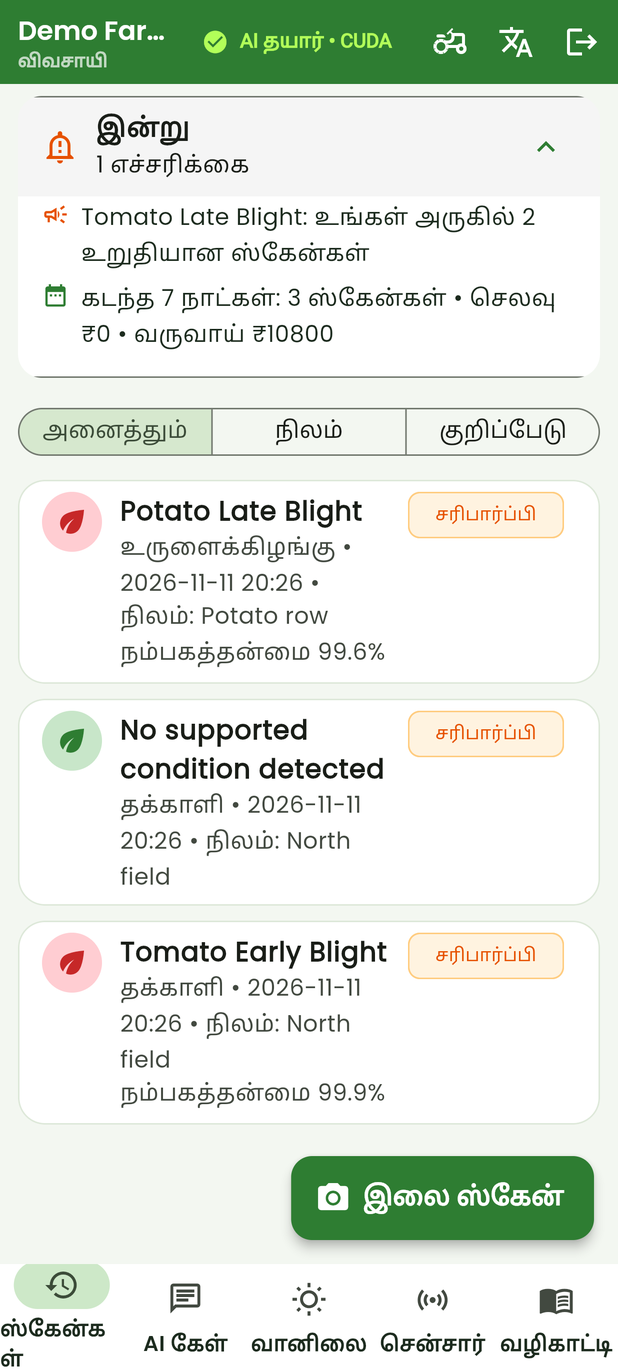
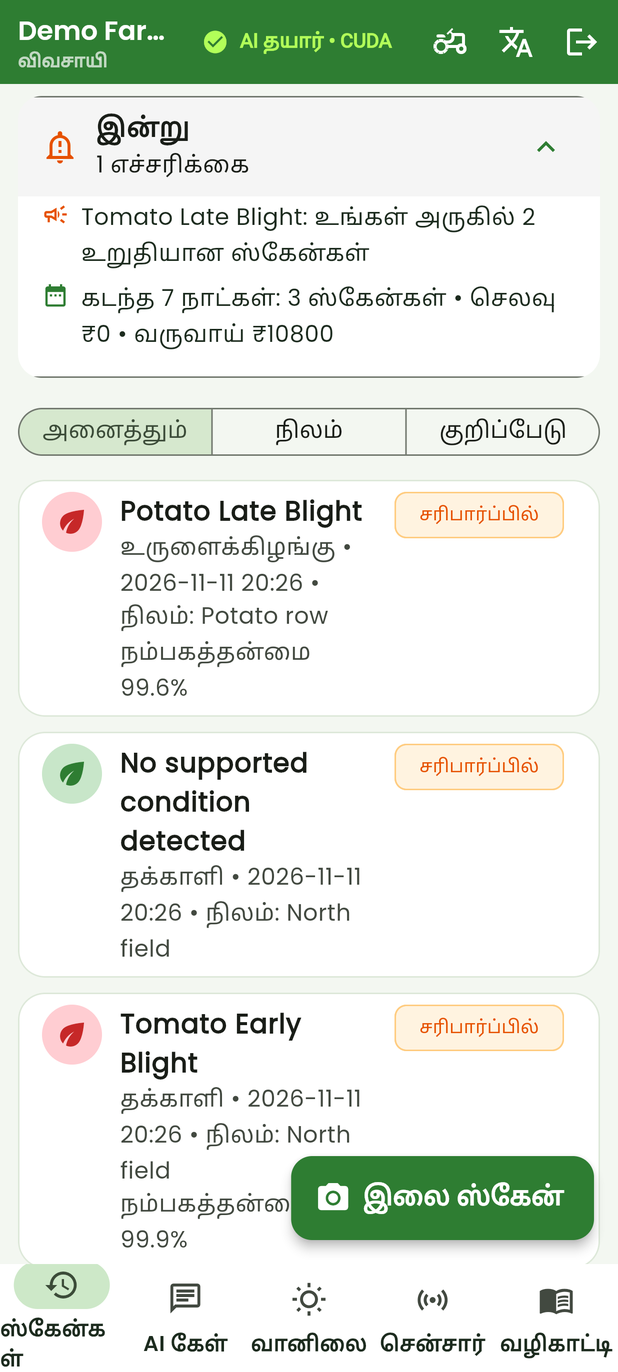
README screenshots: final app shots; review chip fits 'Pending review' on one line

Changed region(s): [[0.0615, 0.4898, 0.9223, 0.9184], [0.6149, 0.3367, 0.8608, 0.398], [0.5227, 0.4592, 0.6149, 0.4898]]

diff --git a/agrobot_flutter_app/lib/widgets/common.dart b/agrobot_flutter_app/lib/widgets/common.dart
@@ -112,12 +112,12 @@ class ReviewChip extends StatelessWidget {
       'rejected' => (Colors.red, 'Rejected'),
       _ => (Colors.orange, 'Pending review'),
     };
-    // Capped width: long translations (Tamil) wrap inside the chip instead of squeezing the scan title
+    // Capped width: a long translation is shortened with … instead of squeezing the scan title
     return ConstrainedBox(
-      constraints: const BoxConstraints(maxWidth: 104),
+      constraints: const BoxConstraints(maxWidth: 150),
       child: Chip(
         label: Text(context.tr(label),
-            maxLines: 2, overflow: TextOverflow.ellipsis, textAlign: TextAlign.center, style: TextStyle(fontSize: 11, color: color.shade900)),
+            maxLines: 1, overflow: TextOverflow.ellipsis, style: TextStyle(fontSize: 11, color: color.shade900)),
         backgroundColor: color.shade50,
         side: BorderSide(color: color.shade200),
         visualDensity: VisualDensity.compact,
